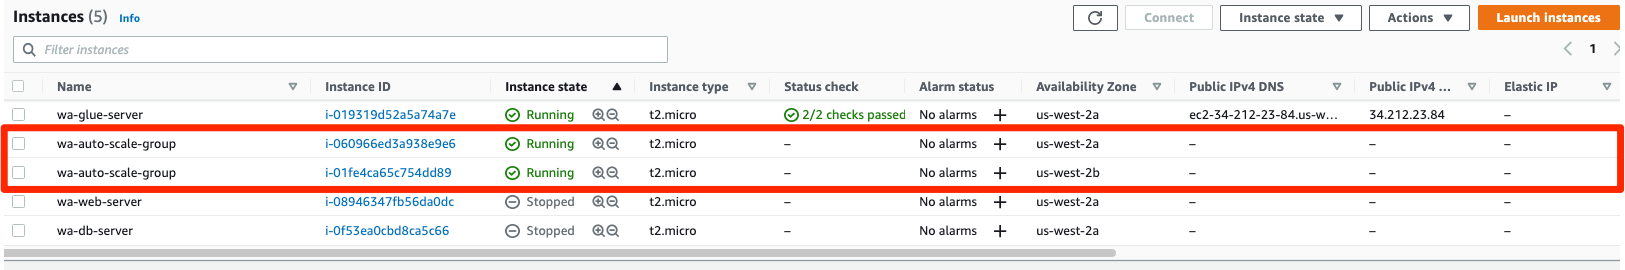
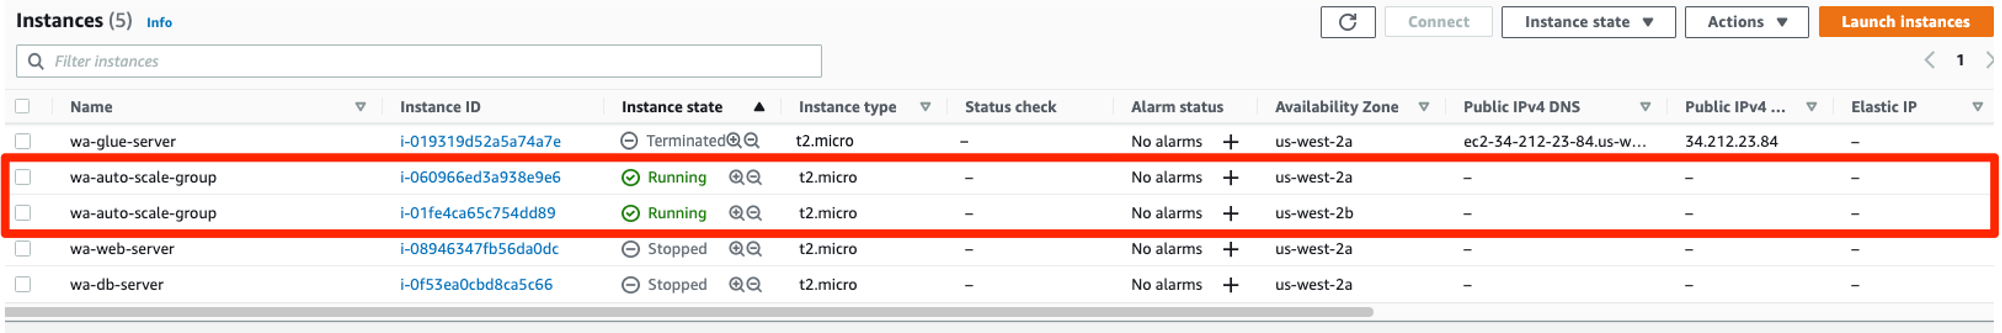
update

diff --git a/content/work3/task-9.md b/content/work3/task-9.md
@@ -55,7 +55,7 @@ If you get the error message "Credentials were refreshed, but the refreshed cred
 
 <img src="../images/chaos1.png" alt="drawing" width="600"/>
 
-7. Take a look at your EC2 instances. Make sure the filter **Instance state:Running** is removed. After one minute of running the *terminate* command you will see one instance changing it's state to **shutting-down** and then **Terminated**. Make sure you refresh the page to see the updated instances information.
+7. Take a look at your EC2 instances. Make sure the filter **Instance state:Running** is removed. After one minute of running the *terminate* command you will see one instance changing its state to **shutting-down** and then **Terminated**. Make sure you refresh the page to see the updated instances information.
 
 <img src="../images/chaos4.png" alt="drawing" width="900"/>
 

diff --git a/content/work4/task-4.md b/content/work4/task-4.md
@@ -18,7 +18,7 @@ We just made a bunch of changes, and on-premises it may be difficult to track th
 
 <img src="../images/ct14.png" alt="drawing" width="800"/>
 
-4. You can remove the system calls by using a **Filter** on **User Name** and putting your **User Name** in the text box and hitting enter. Now **Scroll down**. Do you see all the ACL's you changed? But again, seeing these API calls doesn't give you a good visual of the changes occurring.
+4. You can remove the system calls by using a **Filter** on **User Name** and putting your **User Name** *(MasterKey)* in the text box and hitting enter. Now **Scroll down**. Do you see all the ACL's you changed? But again, seeing these API calls doesn't give you a good visual of the changes occurring.
 
 <img src="../images/ct15.png" alt="drawing" width="800"/>
 

diff --git a/content/work2/task-1.md b/content/work2/task-1.md
@@ -21,7 +21,7 @@ You will see two EC2 instances, one for the web server and other one for the dat
 <img src="../images/instances.png" alt="drawing" width="600"/>
 
 {{% notice warning %}}
-You will see an additional EC2 instance *wa-glue-server*. This instance is used as part of the Lab 5 setup and it will be terminated before you finish Lab 1.
+You will see an additional EC2 instance **wa-glue-server**. This instance is used as part of the Lab 5 setup and it will be automatically terminated before you finish Lab 1. **You do not need to take actions with this instance.**
 {{% /notice %}}
 
 3.  Now we are going to check that the Product catalog web application `(wa-web-server)`  is up and running. Select your web server instance and copy the public DNS:

diff --git a/content/work4/task-3.md b/content/work4/task-3.md
@@ -76,6 +76,10 @@ Select **Inbound rules** and **Edit inbound rules**.
 
 <img src="../images/nacl11.png" alt="drawing" width="1000"/>
 
+12. Let's check at this point that the application is working after networking changes. (Optional) You could add more items in this step.
+
+<img src="../images/chaos1.png" alt="drawing" width="600"/>
+
 {{% notice note %}}
 Now, you've effectively ensured that if the Load Balancers in your environment misbehave, they can't communicate with or compromise the Database servers directly. But there was no additional hardware, firewall, or complex routing required to make this simple change in the simple network topology.
 {{% /notice %}}

diff --git a/content/work3/task-5.md b/content/work3/task-5.md
@@ -32,7 +32,7 @@ This is the expected output:
 
 <img src="../images/rdsstatus.png" alt="drawing" width="200"/>
 
-If the status is **creating** or **modifying** please wait a little more before continue with the next step.
+If the status is **creating** or **modifying** please wait a little more before continuing with the next step.
 
 3. Go to **Systems Manager**
 
